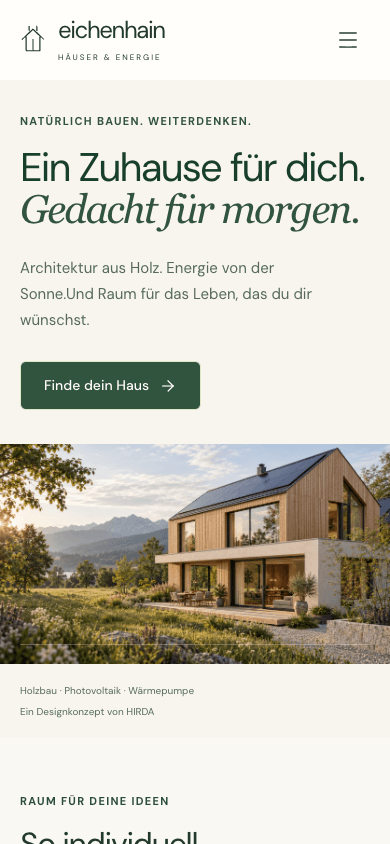
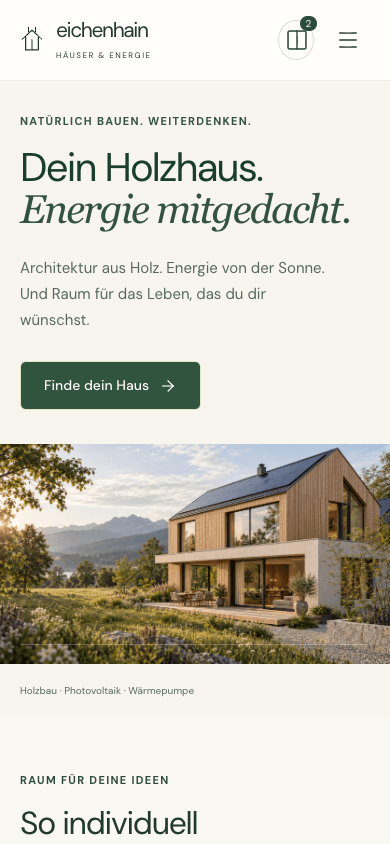
feat(ecohomes): refine house finder, comparison and energy modes

diff --git a/apps/ecohomes/src/scripts/refinement.ts b/apps/ecohomes/src/scripts/refinement.ts
@@ -1,0 +1,29 @@
+import { onPageReady } from '../../../../packages/ui/page-lifecycle';
+interface House {id:string;name:string;area:string;rooms:string;type:string;image:string;features:string[]}
+export function initEnhancements() {
+ onPageReady(() => {
+  const events=new AbortController(),options={signal:events.signal};
+  const houses:House[]=JSON.parse(document.getElementById('house-data')!.textContent!);
+  const dialog=document.querySelector<HTMLDialogElement>('#eco-compare-dialog')!;
+  let selected:string[]=[];
+  try{const raw=JSON.parse(localStorage.getItem('eichenhain:compared')||'[]');if(Array.isArray(raw))selected=[...new Set(raw.filter(id=>houses.some(h=>h.id===id)))].slice(0,3);}catch{/* Локальный выбор доступен без хранилища. */}
+  function sync(){
+   document.querySelectorAll<HTMLButtonElement>('[data-eco-compare]').forEach(b=>b.setAttribute('aria-pressed',String(selected.includes(b.dataset.ecoCompare!))));
+   const count=document.querySelector<HTMLElement>('[data-eco-compare-count]')!;count.hidden=!selected.length;count.textContent=String(selected.length);
+   try{localStorage.setItem('eichenhain:compared',JSON.stringify(selected));}catch{}
+  }
+  document.querySelectorAll<HTMLButtonElement>('[data-eco-compare]').forEach(button=>button.addEventListener('click',()=>{const id=button.dataset.ecoCompare!;selected=selected.includes(id)?selected.filter(value=>value!==id):[...selected,id].slice(-3);sync();},options));sync();
+  document.querySelector('[data-eco-compare-open]')!.addEventListener('click',()=>{
+   const output=document.querySelector('[data-eco-compare-output]')!;output.replaceChildren();
+   if(!selected.length){const p=document.createElement('p');p.textContent='Wähle bis zu drei Hausideen über das Vergleichssymbol in den Karten aus.';output.append(p);}
+   else{const grid=document.createElement('div');grid.className='eco-compare-grid';grid.style.setProperty('--columns',String(selected.length));for(const id of selected){const house=houses.find(h=>h.id===id)!;const article=document.createElement('article'),img=document.createElement('img'),title=document.createElement('h3'),list=document.createElement('dl');img.src=house.image;img.alt=house.name;title.textContent=house.name;for(const [label,value] of [['Wohnfläche',house.area],['Zimmer',house.rooms],['Haustyp',house.type],['Geschosse',house.type==='Bungalow'?'1':'2']]){const row=document.createElement('div'),dt=document.createElement('dt'),dd=document.createElement('dd');dt.textContent=label;dd.textContent=value;row.append(dt,dd);list.append(row);}const button=document.createElement('button');button.type='button';button.className='text-button';button.textContent='Hausidee ansehen →';button.addEventListener('click',()=>{dialog.close();document.querySelector<HTMLButtonElement>(`[data-house="${houses.indexOf(house)}"]`)?.click();},{once:true});article.append(img,title,list,button);grid.append(article);}output.append(grid);}
+   dialog.showModal();
+  },options);
+  document.querySelectorAll<HTMLButtonElement>('[data-energy-mode]').forEach(button=>button.addEventListener('click',()=>{
+   const night=button.dataset.energyMode==='night';document.querySelector('.energy-visual')!.classList.toggle('is-night',night);
+   document.querySelectorAll('[data-energy-mode]').forEach(b=>b.setAttribute('aria-pressed',String(b===button)));
+   document.querySelector('[data-energy-mode-note]')!.textContent=night?'Nachts: Gespeicherten Strom nutzen — abhängig vom Verbrauch und der verfügbaren Kapazität.':'Tagsüber: Sonnenstrom direkt nutzen und im Speicher bereithalten.';
+  },options));
+  return()=>{events.abort();if(dialog.open)dialog.close();};
+ });
+}

diff --git a/apps/ecohomes/src/styles/refinement.css b/apps/ecohomes/src/styles/refinement.css
@@ -1,0 +1,1 @@
+:root{scroll-padding-top:110px}.site-header{position:sticky;top:0;z-index:40;box-shadow:0 1px #294e3e0b}.eco-compare-open{position:relative;display:grid;place-items:center;width:42px;height:44px;flex-shrink:0;border:1px solid var(--line);border-radius:50%;background:transparent;color:var(--green)}.eco-compare-open svg{width:21px;height:21px}.eco-compare-open>span{position:absolute;top:-5px;right:-4px;min-width:17px;padding:1px 4px;border-radius:20px;background:var(--green);color:white;font-size:10px}.house-photo{position:relative}.eco-compare-button{position:absolute;top:18px;right:68px;width:38px;height:38px;border-radius:50%;display:grid;place-items:center;color:var(--green);background:#faf8f3ed;border:1px solid #fff6}.eco-compare-button svg{width:19px;height:19px}.eco-compare-button[aria-pressed=true]{background:var(--green);color:#fff}.energy-mode-bar{display:flex;align-items:center;gap:25px;margin-bottom:24px}.energy-mode{display:flex;border:1px solid #b5c3b3;padding:4px;border-radius:30px;gap:4px;flex-shrink:0}.energy-mode button{display:flex;align-items:center;gap:8px;padding:10px 18px;border-radius:25px;background:transparent;color:var(--green);border:0;font-size:12px;min-height:42px}.energy-mode button svg{width:17px;height:17px}.energy-mode button[aria-pressed=true]{background:var(--green);color:white}.energy-mode-bar>p{font-size:12px;color:var(--muted);max-width:530px;line-height:1.7}.energy-visual>img{transition:filter .6s}.energy-visual.is-night>img{filter:brightness(.5) saturate(.65)}.energy-flow{position:absolute;inset:0;width:100%;height:100%;pointer-events:none;z-index:1}.energy-flow path{stroke:#e7e6a1;stroke-width:3;stroke-dasharray:8 10;filter:drop-shadow(0 0 4px #f6e8b5);animation:energy-flow 4s linear infinite}.energy-flow .flow-house{stroke:#c2e8c8}.is-night .flow-solar{opacity:0}.is-night .flow-house{stroke:#e6e1a8}.energy-pin{z-index:2}.energy-visual .visual-note{z-index:2}.eco-compare-grid{display:grid;grid-template-columns:repeat(var(--columns,3),minmax(190px,1fr));gap:24px;overflow:auto;padding-bottom:10px}.eco-compare-grid img{width:100%;aspect-ratio:1.4;object-fit:cover;border-radius:8px}.eco-compare-grid h3{font-size:25px;margin:20px 0}.eco-compare-grid dl>div{display:flex;gap:15px;justify-content:space-between;padding:12px 0;border-bottom:1px solid var(--line);font-size:12px}.eco-compare-grid dd{margin:0}.eco-compare-grid button{margin-top:15px;font-size:12px}#eco-compare-dialog{width:min(1000px,calc(100vw - 32px));padding:40px}#eco-compare-dialog>h2{font-size:35px;margin-bottom:30px}#eco-compare-dialog>p{margin-bottom:15px}#finder-result{border-top:1px solid var(--line);padding-top:24px;margin-top:25px}#finder-result h3{font-size:24px;margin-bottom:15px}#finder-result p{font-size:14px;line-height:1.7;margin-bottom:18px}.energy-mode button:focus-visible,.eco-compare-open:focus-visible,.eco-compare-button:focus-visible{outline:2px solid var(--green);outline-offset:4px}@keyframes energy-flow{to{stroke-dashoffset:-72}}@media(max-width:900px){.energy-mode-bar{align-items:start;flex-direction:column;gap:14px}.eco-compare-open{margin-left:auto}.header-wrap>.demo-menu-trigger{margin-left:0}#eco-compare-dialog{padding:30px 22px}}@media(max-width:500px){.header-wrap{gap:12px}.brand{font-size:21px}.brand>svg{width:24px;flex-shrink:0}.brand small{letter-spacing:1.5px}.eco-compare-open{width:36px;height:40px}.energy-mode button{min-height:40px;padding:9px 16px}#eco-compare-dialog>h2{font-size:28px}.eco-compare-grid{gap:18px}}@media(prefers-reduced-motion:reduce){.energy-flow path{animation:none}.energy-visual>img{transition:none}}

diff --git a/apps/ecohomes/src/scripts/site.ts b/apps/ecohomes/src/scripts/site.ts
@@ -1,5 +1,10 @@
+import { initEnhancements } from './refinement';
+initEnhancements();
 const houses: {
   id: string;
+  area: string;
+  type: string;
+  rooms: string;
   name: string;
   image: string;
   text: string;
@@ -129,27 +134,27 @@ tabs.forEach((tab, i) =>
 document.getElementById("house-finder")!.addEventListener("submit", (e) => {
   e.preventDefault();
   const data = new FormData(e.currentTarget as HTMLFormElement);
-  const index =
-    data.get("priority") === "level"
-      ? 1
-      : data.get("priority") === "compact"
-        ? 2
-        : 0;
-  const h = houses[index];
+  const preferred = data.get('priority') === 'level' ? 'wiesenblick' : data.get('priority') === 'compact' ? 'hain' : 'lichtung';
+  const target = data.get('area') === 'compact' ? 'hain' : data.get('area') === 'medium' ? 'wiesenblick' : data.get('area') === 'large' ? 'lichtung' : preferred;
+  const h = houses.find(house => house.id === target)!;
   const result = document.getElementById("finder-result")!;
   const title = document.createElement("h3");
   title.textContent = `Deine Richtung: ${h.name}`;
   const p = document.createElement("p");
-  p.textContent = `${h.text} Das ist ein erster Ausgangspunkt, keine verbindliche Planung. Als Nächstes wären Grundstück und Raumbedarf zu klären.`;
+  const conflict = target !== preferred ? 'Die gewählte Fläche führt zu einer anderen Hausidee als dein erster Wohnwunsch. Das klären wir im Gespräch. ' : '';
+  const stage = String(data.get('stage'));
+  const next = stage === 'Ich habe ein Grundstück' ? 'Als Nächstes: Lage, Ausrichtung und Bebaubarkeit deines Grundstücks prüfen.' : stage === 'Ich suche ein Grundstück' ? 'Als Nächstes: Anforderungen an Lage und Grundstücksgröße sammeln.' : 'Als Nächstes: Wohnwünsche und Raumprogramm gemeinsam eingrenzen.';
+  p.textContent = `${h.text} ${conflict}${next} Dies ist eine erste Orientierung, keine verbindliche Planung.`;
   const a = document.createElement("a");
   a.className = "text-button";
   a.href = "#kontakt";
   a.textContent = "Mit dieser Idee weitergehen";
   a.addEventListener(
     "click",
-    () =>
-      (document.querySelector<HTMLSelectElement>("[name=house]")!.value =
-        h.name),
+    () => {
+      document.querySelector<HTMLSelectElement>('[name=house]')!.value = h.name;
+      document.querySelector<HTMLTextAreaElement>('[name=message]')!.value = `Hausidee: ${h.name}\nFlächenwunsch: ${String(data.get('area')) === 'any' ? 'Noch offen' : data.get('area') === 'compact' ? 'Bis etwa 120 m²' : data.get('area') === 'medium' ? '120–145 m²' : 'Ab etwa 145 m²'}\nStand: ${stage}`;
+    },
   );
   result.replaceChildren(title, p, a);
   result.hidden = false;
